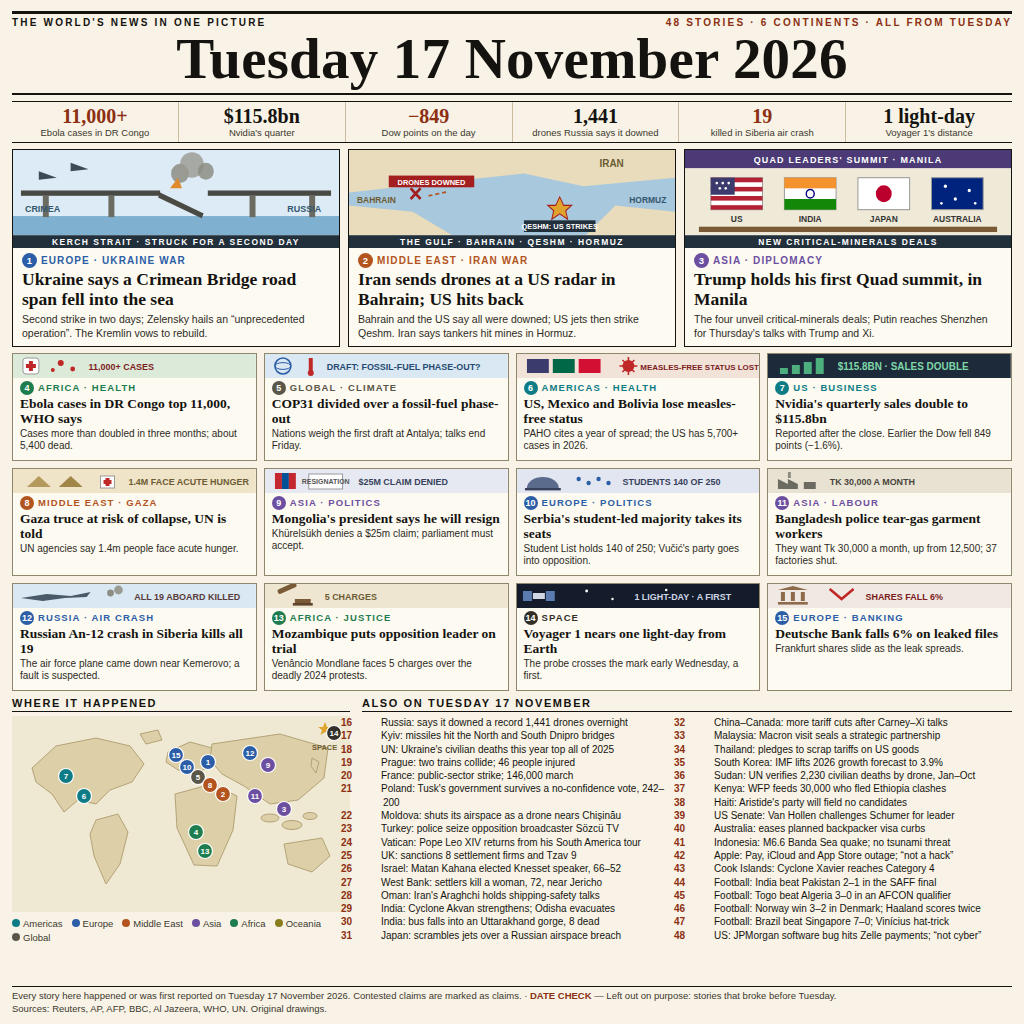
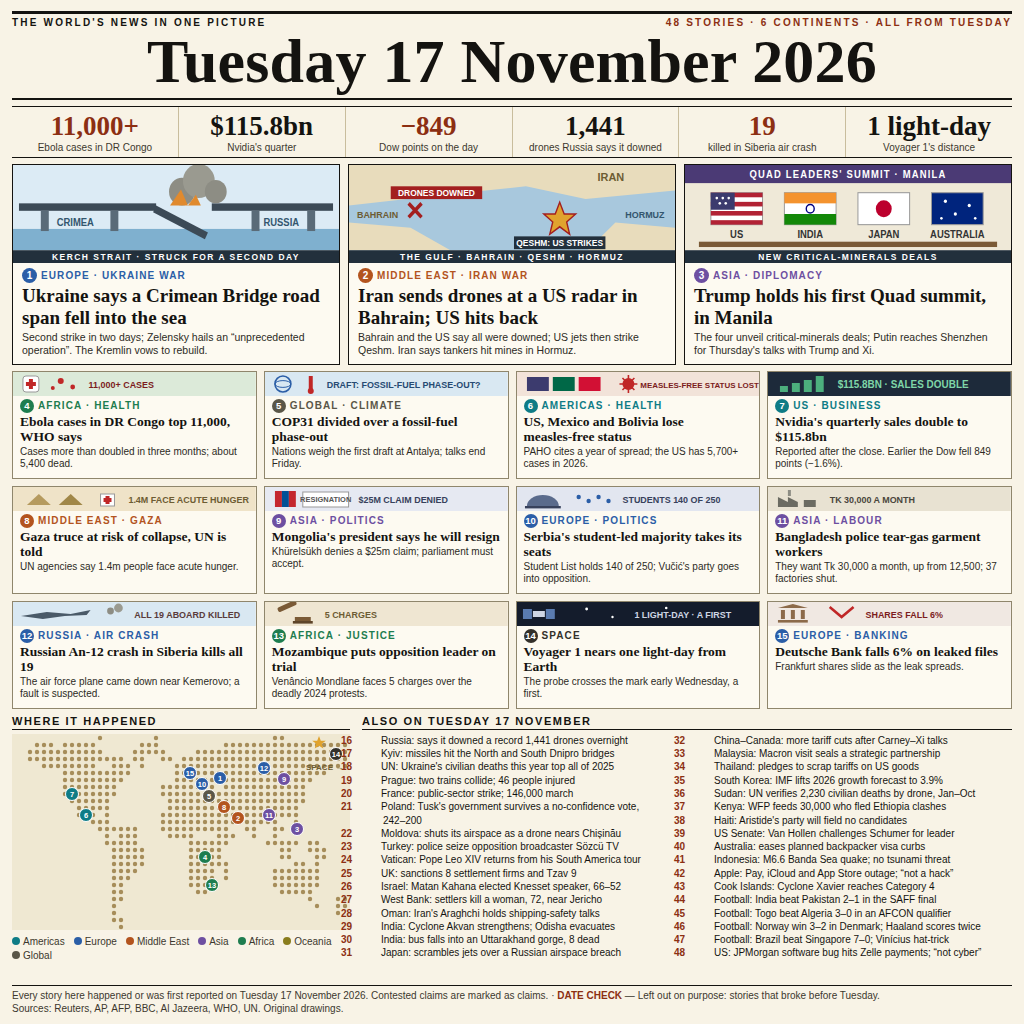
v2: dotted world map, full craft pass

diff --git a/page.html b/page.html
@@ -19,14 +19,15 @@
   .masthead { border-top:3px solid #141310; border-bottom:2px solid #141310; padding:3px 0 5px 0; }
   .kicker { display:flex; justify-content:space-between; font-size:10px; font-weight:bold; letter-spacing:2.2px; }
   .kicker .r { color:#8c2f12; }
-  .masttitle { text-align:center; font-size:57px; font-weight:bold; line-height:1.04; letter-spacing:.2px; margin-top:1px; }
+  .masttitle { text-align:center; font-size:62px; font-weight:bold; line-height:1.04; letter-spacing:.2px; margin-top:1px; }
+  .nw { white-space:nowrap; }
 
   /* ---------- stat strip ---------- */
   .stats { display:flex; border-top:1px solid #141310; border-bottom:1px solid #141310; }
-  .stat { flex:1; text-align:center; padding:4px 3px 3px 3px; border-right:1px solid #c9bd9d; }
+  .stat { flex:1; text-align:center; padding:5px 3px 4px 3px; border-right:1px solid #c9bd9d; }
   .stat:last-child { border-right:none; }
-  .stat b { display:block; font-family:Georgia,'Times New Roman',serif; font-size:20px; line-height:1.05; }
-  .stat span { display:block; font-size:9.5px; line-height:1.15; color:#3c382e; margin-top:1px; }
+  .stat b { display:block; font-family:Georgia,'Times New Roman',serif; font-size:27px; line-height:1.05; }
+  .stat span { display:block; font-size:10px; line-height:1.15; color:#3c382e; margin-top:1px; }
   .stat.hot b { color:#8c2f12; }
 
   /* ---------- lead cards ---------- */
@@ -35,8 +36,8 @@
   .lead svg { display:block; width:100%; height:98px; }
   .lead .body { padding:5px 9px 0 9px; }
   .tag { font-size:10px; font-weight:bold; letter-spacing:1.1px; }
-  .tag .n { display:inline-block; color:#fff; border-radius:50%; width:15px; height:15px; line-height:15px; text-align:center; font-size:9.5px; margin-right:4px; letter-spacing:0; }
-  .lead h2 { font-family:Georgia,'Times New Roman',serif; font-size:17.5px; line-height:1.14; margin:2px 0 3px 0; }
+  .tag .n { display:inline-block; color:#fff; border-radius:50%; width:15px; height:15px; line-height:15px; text-align:center; font-size:10px; margin-right:4px; letter-spacing:0; }
+  .lead h2 { font-family:Georgia,'Times New Roman',serif; font-size:19px; line-height:1.12; margin:2px 0 3px 0; }
   .lead p { font-size:10.5px; line-height:1.28; color:#2c2a24; }
   .c-eu { background:#2b5ea7; } .c-me { background:#b3541e; } .c-as { background:#6d4fa1; }
   .c-af { background:#1e7d4f; } .c-am { background:#0e7c86; } .c-gl { background:#5a5648; } .c-sp { background:#33302a; }
@@ -48,8 +49,8 @@
   .card { border:1px solid #8f866c; background:#fdfaf1; overflow:hidden; height:108px; }
   .card svg { display:block; width:100%; height:24px; }
   .card .body { padding:3px 7px 0 7px; }
-  .card .tag { font-size:9.5px; }
-  .card .tag .n { width:14px; height:14px; line-height:14px; font-size:9px; }
+  .card .tag { font-size:10px; }
+  .card .tag .n { width:14px; height:14px; line-height:14px; font-size:9.5px; }
   .card h3 { font-family:Georgia,'Times New Roman',serif; font-size:13.5px; line-height:1.12; margin:1px 0 2px 0; }
   .card p { font-size:10px; line-height:1.18; color:#2c2a24; }
 
@@ -58,7 +59,7 @@
   .mapbox { width:338px; flex:none; }
   .alsobox { flex:1; }
   .btitle { font-size:11px; font-weight:bold; letter-spacing:1.6px; border-bottom:1.5px solid #141310; padding-bottom:2px; margin-bottom:4px; }
-  .legend { display:flex; flex-wrap:wrap; gap:3px 9px; font-size:9.5px; color:#3c382e; margin-top:2px; }
+  .legend { display:flex; flex-wrap:wrap; gap:3px 9px; font-size:10px; color:#3c382e; margin-top:2px; }
   .legend i { display:inline-block; width:8px; height:8px; border-radius:50%; margin-right:3px; }
   .legend span { white-space:nowrap; }
   .also { list-style:none; columns:2; column-gap:16px; font-size:10px; line-height:1.33; }
@@ -66,7 +67,7 @@
   .also b { display:inline-block; min-width:19px; color:#8c2f12; }
 
   /* ---------- footer ---------- */
-  .footer { border-top:1.5px solid #141310; padding-top:3px; font-size:9.5px; line-height:1.3; color:#3c382e; display:flex; flex-direction:column; gap:0; }
+  .footer { border-top:1.5px solid #141310; padding-top:3px; font-size:10px; line-height:1.3; color:#3c382e; display:flex; flex-direction:column; gap:0; }
   .footer .dc { font-weight:bold; color:#8c2f12; }
 </style>
 </head>
@@ -93,23 +94,22 @@
 
     <article class="lead">
       <svg viewBox="0 0 328 92" preserveAspectRatio="none" aria-label="Crimean Bridge illustration">
-        <rect x="0" y="0" width="328" height="62" fill="#dcebf5"/>
-        <rect x="0" y="62" width="328" height="18" fill="#7fb0cf"/>
-        <polygon points="26,20 44,26 26,28" fill="#3c4a56"/>
-        <polygon points="58,12 76,18 58,20" fill="#3c4a56"/>
-        <rect x="8" y="38" width="140" height="5" fill="#4a4a44"/>
-        <rect x="196" y="38" width="124" height="5" fill="#4a4a44"/>
-        <rect x="148" y="40" width="48" height="5" fill="#4a4a44" transform="rotate(24 148 40)"/>
-        <rect x="30" y="43" width="6" height="20" fill="#6b6b62"/>
-        <rect x="96" y="43" width="6" height="20" fill="#6b6b62"/>
-        <rect x="238" y="43" width="6" height="20" fill="#6b6b62"/>
-        <rect x="298" y="43" width="6" height="20" fill="#6b6b62"/>
-        <circle cx="168" cy="22" r="9" fill="#8d8d84" opacity=".85"/>
-        <circle cx="180" cy="14" r="12" fill="#9a9a90" opacity=".8"/>
-        <circle cx="194" cy="20" r="8" fill="#8d8d84" opacity=".85"/>
-        <polygon points="158,36 166,26 170,36" fill="#e08a2e"/>
-        <text x="12" y="58" font-size="9" font-weight="bold" fill="#33566e">CRIMEA</text>
-        <text x="276" y="58" font-size="9" font-weight="bold" fill="#33566e">RUSSIA</text>
+        <rect x="0" y="0" width="328" height="60" fill="#dcebf5"/>
+        <rect x="0" y="60" width="328" height="20" fill="#7fb0cf"/>
+        <rect x="6" y="36" width="138" height="7" fill="#3c4a56"/>
+        <rect x="200" y="36" width="122" height="7" fill="#3c4a56"/>
+        <rect x="144" y="38" width="58" height="7" fill="#3c4a56" transform="rotate(26 144 38)"/>
+        <rect x="28" y="43" width="8" height="19" fill="#5a6b78"/>
+        <rect x="98" y="43" width="8" height="19" fill="#5a6b78"/>
+        <rect x="240" y="43" width="8" height="19" fill="#5a6b78"/>
+        <rect x="296" y="43" width="8" height="19" fill="#5a6b78"/>
+        <circle cx="170" cy="25" r="13" fill="#8d8d84"/>
+        <circle cx="187" cy="15" r="16" fill="#9a9a90"/>
+        <circle cx="204" cy="25" r="11" fill="#8d8d84"/>
+        <polygon points="158,38 169,23 176,38" fill="#e08a2e"/>
+        <polygon points="176,38 184,28 189,38" fill="#e08a2e"/>
+        <text x="44" y="57" font-size="9.5" font-weight="bold" fill="#33566e">CRIMEA</text>
+        <text x="252" y="57" font-size="9.5" font-weight="bold" fill="#33566e">RUSSIA</text>
         <rect x="0" y="80" width="328" height="12" fill="#22303c"/>
         <text x="164" y="89" font-size="8.5" font-weight="bold" fill="#ffffff" text-anchor="middle" letter-spacing="1.5">KERCH STRAIT &middot; STRUCK FOR A SECOND DAY</text>
       </svg>
@@ -123,19 +123,18 @@
     <article class="lead">
       <svg viewBox="0 0 328 92" preserveAspectRatio="none" aria-label="Gulf map illustration">
         <rect x="0" y="0" width="328" height="80" fill="#a8c8dd"/>
-        <path d="M0,0 L328,0 L328,26 L236,34 L176,22 L96,30 L0,40 Z" fill="#e8dcbc"/>
-        <path d="M0,80 L0,52 L64,58 L104,80 Z" fill="#e8dcbc"/>
-        <path d="M238,80 L268,52 L328,58 L328,80 Z" fill="#e8dcbc"/>
-        <text x="252" y="16" font-size="10" font-weight="bold" fill="#6d5c33">IRAN</text>
-        <text x="8" y="50" font-size="8.5" font-weight="bold" fill="#6d5c33">BAHRAIN</text>
-        <text x="282" y="50" font-size="8.5" font-weight="bold" fill="#33566e">HORMUZ</text>
-        <path d="M80,43 L100,39" stroke="#b3541e" stroke-width="1.6" stroke-dasharray="4 3"/>
-        <path d="M62,36 l10,10 M72,36 l-10,10" stroke="#a31f1f" stroke-width="2.6"/>
-        <rect x="40" y="24" width="86" height="11" fill="#a31f1f"/>
-        <text x="83" y="32.5" font-size="7.5" font-weight="bold" fill="#fff" text-anchor="middle">DRONES DOWNED</text>
-        <polygon points="212,44 216,52 224,52 218,57 220,65 212,60 204,65 206,57 200,52 208,52" fill="#e0a32e" stroke="#a31f1f" stroke-width="1"/>
-        <rect x="176" y="66" width="72" height="11" fill="#22303c"/>
-        <text x="212" y="74.5" font-size="7.5" font-weight="bold" fill="#fff" text-anchor="middle">QESHM: US STRIKES</text>
+        <path d="M0,0 L328,0 L328,24 L238,32 L178,20 L96,28 L0,38 Z" fill="#e8dcbc"/>
+        <path d="M0,80 L0,54 L62,59 L102,80 Z" fill="#e8dcbc"/>
+        <path d="M240,80 L268,54 L328,59 L328,80 Z" fill="#e8dcbc"/>
+        <text x="250" y="15" font-size="11" font-weight="bold" fill="#6d5c33">IRAN</text>
+        <text x="8" y="50" font-size="9" font-weight="bold" fill="#6d5c33">BAHRAIN</text>
+        <text x="278" y="50" font-size="9" font-weight="bold" fill="#33566e">HORMUZ</text>
+        <rect x="42" y="20" width="92" height="12" fill="#a31f1f"/>
+        <text x="88" y="29" font-size="8.5" font-weight="bold" fill="#fff" text-anchor="middle">DRONES DOWNED</text>
+        <path d="M60,36 l13,13 M73,36 l-13,13" stroke="#a31f1f" stroke-width="3.4"/>
+        <polygon points="212,35 216.5,46 228,46 219,53.5 222,65 212,58 202,65 205,53.5 196,46 207.5,46" fill="#e0a32e" stroke="#a31f1f" stroke-width="1.4"/>
+        <rect x="166" y="67" width="92" height="12" fill="#22303c"/>
+        <text x="212" y="76" font-size="8.5" font-weight="bold" fill="#fff" text-anchor="middle">QESHM: US STRIKES</text>
         <rect x="0" y="80" width="328" height="12" fill="#22303c"/>
         <text x="164" y="89" font-size="8.5" font-weight="bold" fill="#ffffff" text-anchor="middle" letter-spacing="1.5">THE GULF &middot; BAHRAIN &middot; QESHM &middot; HORMUZ</text>
       </svg>
@@ -150,30 +149,30 @@
       <svg viewBox="0 0 328 92" preserveAspectRatio="none" aria-label="Quad summit illustration">
         <rect x="0" y="0" width="328" height="80" fill="#efe9d8"/>
         <rect x="0" y="0" width="328" height="17" fill="#4b3a75"/>
-        <text x="164" y="12" font-size="9" font-weight="bold" fill="#ffffff" text-anchor="middle" letter-spacing="1.2">QUAD LEADERS' SUMMIT &middot; MANILA</text>
+        <text x="164" y="12.5" font-size="9.5" font-weight="bold" fill="#ffffff" text-anchor="middle" letter-spacing="1.2">QUAD LEADERS' SUMMIT &middot; MANILA</text>
         <g>
           <rect x="26" y="26" width="52" height="30" fill="#fff" stroke="#999"/>
           <rect x="26" y="26" width="52" height="4.3" fill="#b22234"/><rect x="26" y="34.6" width="52" height="4.3" fill="#b22234"/><rect x="26" y="43.2" width="52" height="4.3" fill="#b22234"/><rect x="26" y="51.8" width="52" height="4.2" fill="#b22234"/>
           <rect x="26" y="26" width="24" height="16" fill="#3c3b6e"/>
           <circle cx="32" cy="31" r="1.3" fill="#fff"/><circle cx="38" cy="31" r="1.3" fill="#fff"/><circle cx="44" cy="31" r="1.3" fill="#fff"/><circle cx="35" cy="36" r="1.3" fill="#fff"/><circle cx="41" cy="36" r="1.3" fill="#fff"/>
-          <text x="52" y="68" font-size="8.5" font-weight="bold" text-anchor="middle" fill="#333">US</text>
+          <text x="52" y="69" font-size="9.5" font-weight="bold" text-anchor="middle" fill="#333">US</text>
         </g>
         <g>
           <rect x="100" y="26" width="52" height="30" fill="#fff" stroke="#999"/>
           <rect x="100" y="26" width="52" height="10" fill="#f4932e"/>
           <rect x="100" y="46" width="52" height="10" fill="#138808"/>
           <circle cx="126" cy="41" r="4" fill="none" stroke="#000080" stroke-width="1.4"/>
-          <text x="126" y="68" font-size="8.5" font-weight="bold" text-anchor="middle" fill="#333">INDIA</text>
+          <text x="126" y="69" font-size="9.5" font-weight="bold" text-anchor="middle" fill="#333">INDIA</text>
         </g>
         <g>
           <rect x="174" y="26" width="52" height="30" fill="#fff" stroke="#999"/>
           <circle cx="200" cy="41" r="8" fill="#bc002d"/>
-          <text x="200" y="68" font-size="8.5" font-weight="bold" text-anchor="middle" fill="#333">JAPAN</text>
+          <text x="200" y="69" font-size="9.5" font-weight="bold" text-anchor="middle" fill="#333">JAPAN</text>
         </g>
         <g>
           <rect x="248" y="26" width="52" height="30" fill="#00247d" stroke="#999"/>
           <circle cx="262" cy="34" r="1.6" fill="#fff"/><circle cx="286" cy="38" r="1.6" fill="#fff"/><circle cx="272" cy="46" r="1.6" fill="#fff"/><circle cx="292" cy="50" r="1.3" fill="#fff"/><circle cx="258" cy="50" r="1.3" fill="#fff"/>
-          <text x="274" y="68" font-size="8.5" font-weight="bold" text-anchor="middle" fill="#333">AUSTRALIA</text>
+          <text x="274" y="69" font-size="9.5" font-weight="bold" text-anchor="middle" fill="#333">AUSTRALIA</text>
         </g>
         <rect x="14" y="72" width="300" height="5" fill="#7a5a36"/>
         <rect x="0" y="80" width="328" height="12" fill="#22303c"/>
@@ -203,7 +202,7 @@
       <svg viewBox="0 0 244 24" preserveAspectRatio="none"><rect width="244" height="24" fill="#d9e8f2"/><circle cx="18" cy="12" r="8" fill="none" stroke="#2b5ea7" stroke-width="1.6"/><ellipse cx="18" cy="12" rx="8" ry="3.4" fill="none" stroke="#2b5ea7" stroke-width="1"/><rect x="44" y="4" width="4" height="13" fill="#c02727"/><circle cx="46" cy="19" r="3" fill="#c02727"/><text x="62" y="16" font-size="9" font-weight="bold" fill="#274b73">DRAFT: FOSSIL-FUEL PHASE-OUT?</text></svg>
       <div class="body">
         <div class="tag t-gl"><span class="n c-gl">5</span>GLOBAL &middot; CLIMATE</div>
-        <h3>COP31 divided over a fossil-fuel phase-out</h3>
+        <h3>COP31 divided over a fossil-fuel <span class="nw">phase-out</span></h3>
         <p>Nations weigh the first draft at Antalya; talks end Friday.</p>
       </div>
     </article>
@@ -212,7 +211,7 @@
       <svg viewBox="0 0 244 24" preserveAspectRatio="none"><rect width="244" height="24" fill="#f2e3d9"/><rect x="10" y="5" width="22" height="14" fill="#3c3b6e"/><rect x="36" y="5" width="22" height="14" fill="#006847"/><rect x="62" y="5" width="22" height="14" fill="#d21034"/><circle cx="112" cy="12" r="6" fill="#c02727"/><path d="M112,3 v4 M112,17 v4 M103,12 h4 M117,12 h4 M106,6 l3,3 M115,15 l3,3 M118,6 l-3,3 M109,15 l-3,3" stroke="#c02727" stroke-width="1.6"/><text x="124" y="16" font-size="8" font-weight="bold" fill="#7c1d1d">MEASLES-FREE STATUS LOST</text></svg>
       <div class="body">
         <div class="tag t-am"><span class="n c-am">6</span>AMERICAS &middot; HEALTH</div>
-        <h3>US, Mexico and Bolivia lose measles-free status</h3>
+        <h3>US, Mexico and Bolivia lose <span class="nw">measles-free</span> status</h3>
         <p>PAHO cites a year of spread; the US has 5,700+ cases in 2026.</p>
       </div>
     </article>
@@ -236,7 +235,7 @@
     </article>
 
     <article class="card">
-      <svg viewBox="0 0 244 24" preserveAspectRatio="none"><rect width="244" height="24" fill="#e6e9f2"/><rect x="10" y="4" width="7" height="16" fill="#c4272f"/><rect x="17" y="4" width="7" height="16" fill="#015197"/><rect x="24" y="4" width="7" height="16" fill="#c4272f"/><rect x="44" y="5" width="34" height="15" fill="#fff" stroke="#999"/><text x="61" y="15" font-size="7" font-weight="bold" fill="#555" text-anchor="middle">RESIGNATION</text><text x="94" y="16" font-size="9" font-weight="bold" fill="#37415c">$25M CLAIM DENIED</text></svg>
+      <svg viewBox="0 0 244 24" preserveAspectRatio="none"><rect width="244" height="24" fill="#e6e9f2"/><rect x="10" y="4" width="7" height="16" fill="#c4272f"/><rect x="17" y="4" width="7" height="16" fill="#015197"/><rect x="24" y="4" width="7" height="16" fill="#c4272f"/><rect x="38" y="5" width="46" height="15" fill="#fff" stroke="#999"/><text x="61" y="15.5" font-size="7.5" font-weight="bold" fill="#555" text-anchor="middle">RESIGNATION</text><text x="94" y="16" font-size="9" font-weight="bold" fill="#37415c">$25M CLAIM DENIED</text></svg>
       <div class="body">
         <div class="tag t-as"><span class="n c-as">9</span>ASIA &middot; POLITICS</div>
         <h3>Mongolia's president says he will resign</h3>
@@ -303,40 +302,28 @@
   <section class="bottom">
     <div class="mapbox">
       <div class="btitle">WHERE IT HAPPENED</div>
-      <svg viewBox="0 0 338 196" width="338" height="196" aria-label="World map with story pins">
+      <svg viewBox="0 0 338 196" width="338" height="196" aria-label="Dotted world map with story pins">
         <rect x="0" y="0" width="338" height="196" fill="#efe8d2"/>
-        <g fill="#ddd0a8" stroke="#b3a377" stroke-width="1">
-          <path d="M20,52 L44,30 L84,22 L118,30 L132,48 L120,66 L98,74 L84,88 L66,84 L52,96 L40,78 L24,66 Z"/>
-          <path d="M128,18 L146,14 L150,24 L134,28 Z"/>
-          <path d="M84,104 L106,98 L116,116 L108,148 L94,168 L82,140 L78,118 Z"/>
-          <path d="M156,36 L178,26 L200,32 L198,50 L184,58 L166,54 L154,46 Z"/>
-          <path d="M163,78 L200,68 L225,80 L221,114 L205,150 L182,149 L165,112 Z"/>
-          <path d="M200,28 L268,18 L316,32 L312,62 L286,84 L258,88 L232,70 L210,58 L198,44 Z"/>
-          <ellipse cx="258" cy="102" rx="9" ry="4"/>
-          <ellipse cx="280" cy="109" rx="10" ry="4.5"/>
-          <ellipse cx="298" cy="100" rx="7" ry="3.5"/>
-          <path d="M272,128 L310,122 L318,140 L300,156 L276,148 Z"/>
-          <path d="M300,42 L307,46 L304,57 L299,50 Z"/>
+        <g id="dots" fill="#a68d5a"></g>
+        <polygon points="307,2 308.8,6.8 313.8,6.8 309.8,9.8 311.3,14.6 307,11.7 302.7,14.6 304.2,9.8 300.2,6.8 305.2,6.8" fill="#e0a32e"/>
+        <g font-size="7.5" font-weight="bold" fill="#fff" text-anchor="middle">
+          <g><circle cx="178" cy="39" r="6.5" fill="#2b5ea7" stroke="#fff" stroke-width="1"/><text x="178" y="41.6">15</text></g>
+          <g><circle cx="190" cy="50" r="6.5" fill="#2b5ea7" stroke="#fff" stroke-width="1"/><text x="190" y="52.6">10</text></g>
+          <g><circle cx="208" cy="44" r="6.5" fill="#2b5ea7" stroke="#fff" stroke-width="1"/><text x="208" y="46.6">1</text></g>
+          <g><circle cx="197" cy="62" r="6.5" fill="#5a5648" stroke="#fff" stroke-width="1"/><text x="197" y="64.6">5</text></g>
+          <g><circle cx="212" cy="73" r="6.5" fill="#b3541e" stroke="#fff" stroke-width="1"/><text x="212" y="75.6">8</text></g>
+          <g><circle cx="226" cy="84" r="6.5" fill="#b3541e" stroke="#fff" stroke-width="1"/><text x="226" y="86.6">2</text></g>
+          <g><circle cx="252" cy="34" r="6.5" fill="#2b5ea7" stroke="#fff" stroke-width="1"/><text x="252" y="36.6">12</text></g>
+          <g><circle cx="272" cy="45" r="6.5" fill="#6d4fa1" stroke="#fff" stroke-width="1"/><text x="272" y="47.6">9</text></g>
+          <g><circle cx="257" cy="81" r="6.5" fill="#6d4fa1" stroke="#fff" stroke-width="1"/><text x="257" y="83.6">11</text></g>
+          <g><circle cx="285" cy="95" r="6.5" fill="#6d4fa1" stroke="#fff" stroke-width="1"/><text x="285" y="97.6">3</text></g>
+          <g><circle cx="193" cy="123" r="6.5" fill="#1e7d4f" stroke="#fff" stroke-width="1"/><text x="193" y="125.6">4</text></g>
+          <g><circle cx="200" cy="151" r="6.5" fill="#1e7d4f" stroke="#fff" stroke-width="1"/><text x="200" y="153.6">13</text></g>
+          <g><circle cx="74" cy="81" r="6.5" fill="#0e7c86" stroke="#fff" stroke-width="1"/><text x="74" y="83.6">6</text></g>
+          <g><circle cx="60" cy="60" r="6.5" fill="#0e7c86" stroke="#fff" stroke-width="1"/><text x="60" y="62.6">7</text></g>
+          <g><circle cx="324" cy="20" r="6.5" fill="#33302a" stroke="#fff" stroke-width="1"/><text x="324" y="22.6">14</text></g>
         </g>
-        <polygon points="313,6 315,11 320,11 316,14 317.5,19 313,16 308.5,19 310,14 306,11 311,11" fill="#e0a32e"/>
-        <g font-size="8" font-weight="bold" fill="#fff" text-anchor="middle">
-          <g><circle cx="164" cy="39" r="7.5" fill="#2b5ea7" stroke="#fff" stroke-width="1.2"/><text x="164" y="42">15</text></g>
-          <g><circle cx="175" cy="51" r="7.5" fill="#2b5ea7" stroke="#fff" stroke-width="1.2"/><text x="175" y="54">10</text></g>
-          <g><circle cx="196" cy="46" r="7.5" fill="#2b5ea7" stroke="#fff" stroke-width="1.2"/><text x="196" y="49">1</text></g>
-          <g><circle cx="186" cy="61" r="7.5" fill="#5a5648" stroke="#fff" stroke-width="1.2"/><text x="186" y="64">5</text></g>
-          <g><circle cx="198" cy="69" r="7.5" fill="#b3541e" stroke="#fff" stroke-width="1.2"/><text x="198" y="72">8</text></g>
-          <g><circle cx="211" cy="78" r="7.5" fill="#b3541e" stroke="#fff" stroke-width="1.2"/><text x="211" y="81">2</text></g>
-          <g><circle cx="238" cy="37" r="7.5" fill="#2b5ea7" stroke="#fff" stroke-width="1.2"/><text x="238" y="40">12</text></g>
-          <g><circle cx="256" cy="49" r="7.5" fill="#6d4fa1" stroke="#fff" stroke-width="1.2"/><text x="256" y="52">9</text></g>
-          <g><circle cx="243" cy="80" r="7.5" fill="#6d4fa1" stroke="#fff" stroke-width="1.2"/><text x="243" y="83">11</text></g>
-          <g><circle cx="272" cy="93" r="7.5" fill="#6d4fa1" stroke="#fff" stroke-width="1.2"/><text x="272" y="96">3</text></g>
-          <g><circle cx="184" cy="116" r="7.5" fill="#1e7d4f" stroke="#fff" stroke-width="1.2"/><text x="184" y="119">4</text></g>
-          <g><circle cx="193" cy="135" r="7.5" fill="#1e7d4f" stroke="#fff" stroke-width="1.2"/><text x="193" y="138">13</text></g>
-          <g><circle cx="72" cy="80" r="7.5" fill="#0e7c86" stroke="#fff" stroke-width="1.2"/><text x="72" y="83">6</text></g>
-          <g><circle cx="54" cy="60" r="7.5" fill="#0e7c86" stroke="#fff" stroke-width="1.2"/><text x="54" y="63">7</text></g>
-          <g><circle cx="322" cy="17" r="7.5" fill="#33302a" stroke="#fff" stroke-width="1.2"/><text x="322" y="20">14</text></g>
-        </g>
-        <text x="300" y="34" font-size="7.5" font-weight="bold" fill="#6d5c33">SPACE &rarr;</text>
+        <text x="294" y="36" font-size="8" font-weight="bold" fill="#6d5c33">SPACE &rarr;</text>
       </svg>
       <div class="legend">
         <span><i style="background:#0e7c86"></i>Americas</span>
@@ -357,7 +344,7 @@
         <li><b>18</b>UN: Ukraine's civilian deaths this year top all of 2025</li>
         <li><b>19</b>Prague: two trains collide; 46 people injured</li>
         <li><b>20</b>France: public-sector strike; 146,000 march</li>
-        <li><b>21</b>Poland: Tusk's government survives a no-confidence vote, 242&ndash;200</li>
+        <li><b>21</b>Poland: Tusk's government survives a no-confidence vote, <span class="nw">242&ndash;200</span></li>
         <li><b>22</b>Moldova: shuts its airspace as a drone nears Chi&#537;in&#259;u</li>
         <li><b>23</b>Turkey: police seize opposition broadcaster S&ouml;zc&uuml; TV</li>
         <li><b>24</b>Vatican: Pope Leo XIV returns from his South America tour</li>
@@ -394,6 +381,56 @@
     <span>Every story here happened or was first reported on Tuesday 17 November 2026. Contested claims are marked as claims. &middot; <span class="dc">DATE CHECK</span> &mdash; Left out on purpose: stories that broke before Tuesday.</span>
     <span>Sources: Reuters, AP, AFP, BBC, Al Jazeera, WHO, UN. Original drawings.</span>
   </footer>
+
+  <script>
+    // Dotted world map: each string is one latitude row (48 columns,
+    // -180..180 longitude); '#' cells become dots in the map's <g id="dots">.
+    var MASK = [
+      "............#.......#................##.........",
+      "...###.#####......###.........##################",
+      "..###########....#####....######################",
+      "..##############.##..##.########################",
+      "....########..###.#....#########################",
+      ".......##########......######################...",
+      ".......#########.......####################.....",
+      ".......########......########.############......",
+      ".......########......#####################......",
+      "........######........####################......",
+      ".........#####........###################.......",
+      ".........###.#.......####################.......",
+      "...........###.......#################..#.......",
+      "............######...##########..##..##.#.......",
+      ".............#.###....####...###..#..#..........",
+      ".............#####.......######.....#####.##....",
+      "..............#####......#####........##..###...",
+      "..............#####......#####........##...##...",
+      "..............#####......######.........##.#....",
+      "..............####.......####.#......#######....",
+      "..............###........####.#......#######....",
+      "..............##.........####........#######....",
+      "..............##..........##..........#####.....",
+      "..............##..........................#...##",
+      "..............#............................#..##",
+      "..............#...............................#.",
+      "..............##................................",
+      "...............#................................"
+    ];
+    (function () {
+      var g = document.getElementById('dots');
+      var NS = 'http://www.w3.org/2000/svg';
+      for (var r = 0; r < MASK.length; r++) {
+        var row = MASK[r];
+        for (var c = 0; c < row.length; c++) {
+          if (row.charAt(c) !== '#') continue;
+          var ci = document.createElementNS(NS, 'circle');
+          ci.setAttribute('cx', 4 + c * 7);
+          ci.setAttribute('cy', 4 + r * 7);
+          ci.setAttribute('r', 2.2);
+          g.appendChild(ci);
+        }
+      }
+    })();
+  </script>
 
 </body>
 </html>
